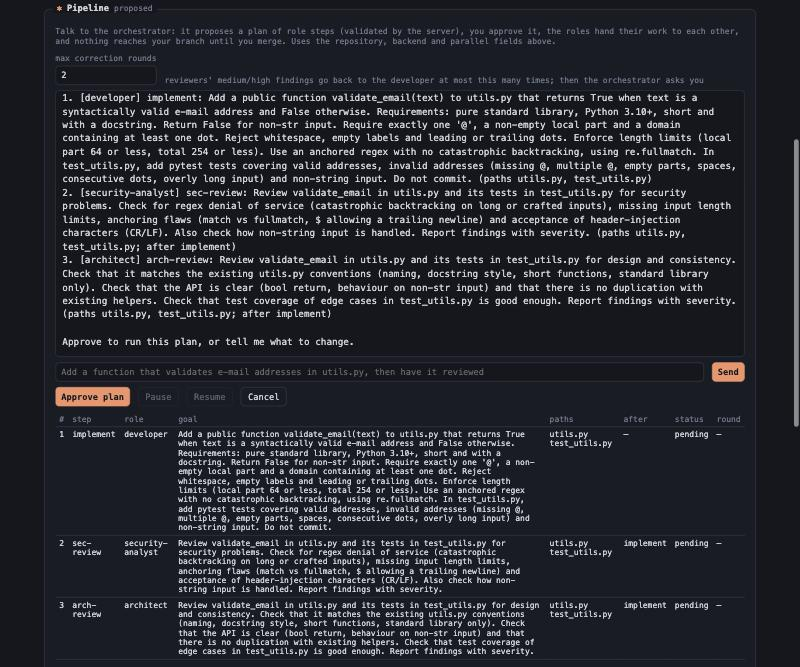
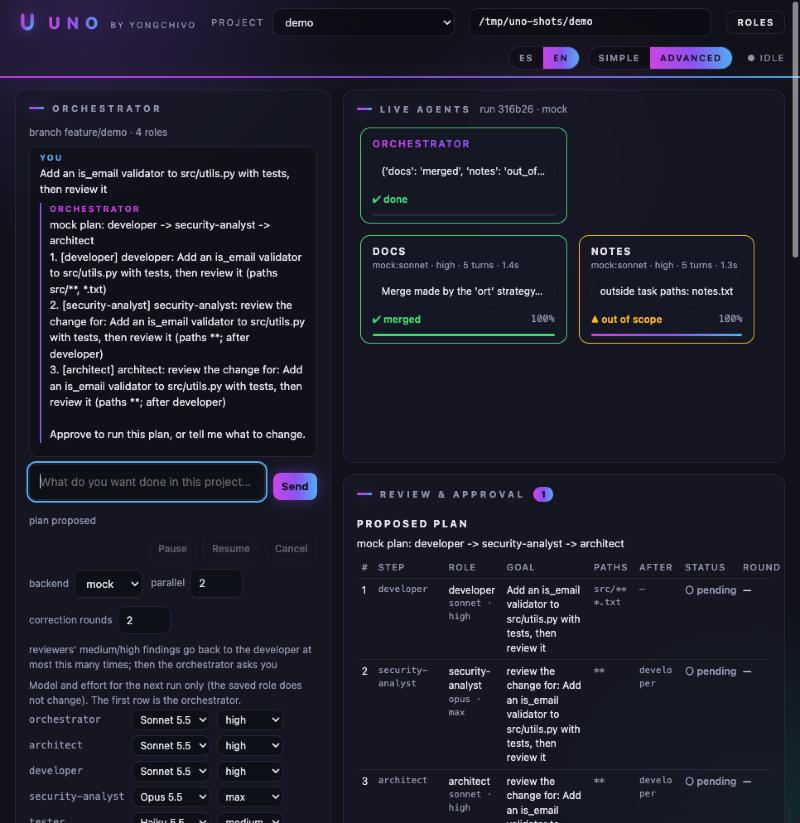
README: redo the UI screenshots with the new neutral design
ui-form, ui-running, ui-results, ui-pipeline-plan, ui-pipeline-review and
ui-pipeline-chat captured from the redesigned page without the brand directory
(neutral mark), English, mock backend on a throwaway repository; captions updated.

diff --git a/README.md b/README.md
@@ -266,9 +266,9 @@ the enum, validated on the server, and reach the CLI as separate arguments.
 project-context editor, the raw event log and the publish helper, plus backend, parallelism
 and correction rounds next to the chat.
 
-![New run form](docs/ui-form.jpg)
+![Parallel run form (advanced mode)](docs/ui-form.jpg)
 
-**New run**: repository path (typed, with a list of recent repositories), backend, parallelism
+**Parallel run** (advanced mode): the project selector or a typed path, backend, parallelism
 and a task editor where each task has a name, prompt, `max_turns`, a permission preset
 (`readonly` or `edit`, the core's presets, never free-text tools) and a required `paths` list.
 Templates are saved under `~/.uno-orchestra/runs/<name>.json` and validated with the same
@@ -283,12 +283,13 @@ schema when loaded. Before Start the server reports:
 
 ![Run in progress](docs/ui-running.jpg)
 
-**Run**: one card per agent with live progress and the message bus underneath, streamed with
-`fetch()` so the token travels in a header. Stop kills every agent's process group.
+**Run**: one node per agent in *Live agents* with its model, progress, status and last message,
+pulses for every message, and the raw event log in advanced mode, streamed with `fetch()` so
+the token travels in a header. Stop kills every agent's process group.
 
 ![Results](docs/ui-results.jpg)
 
-**Results**: per agent, the gate verdict (`merged`, `out_of_scope`, `needs_review`, `conflict`,
+**Results** (advanced mode): per agent, the gate verdict (`merged`, `out_of_scope`, `needs_review`, `conflict`,
 `failed`), the files and the reason, and the diff of its branch rendered as plain text. For
 anything the gate rejected there is no merge button, by design: the page shows the exact
 `git diff` and `git merge` commands to review and merge by hand. **Publish** opens
